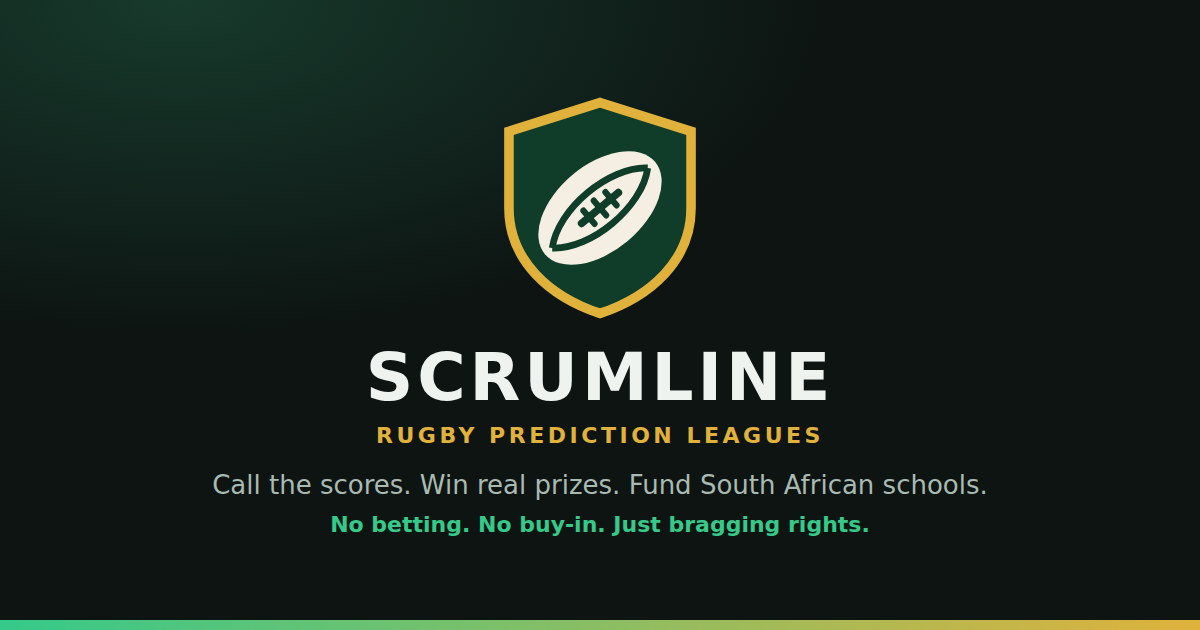
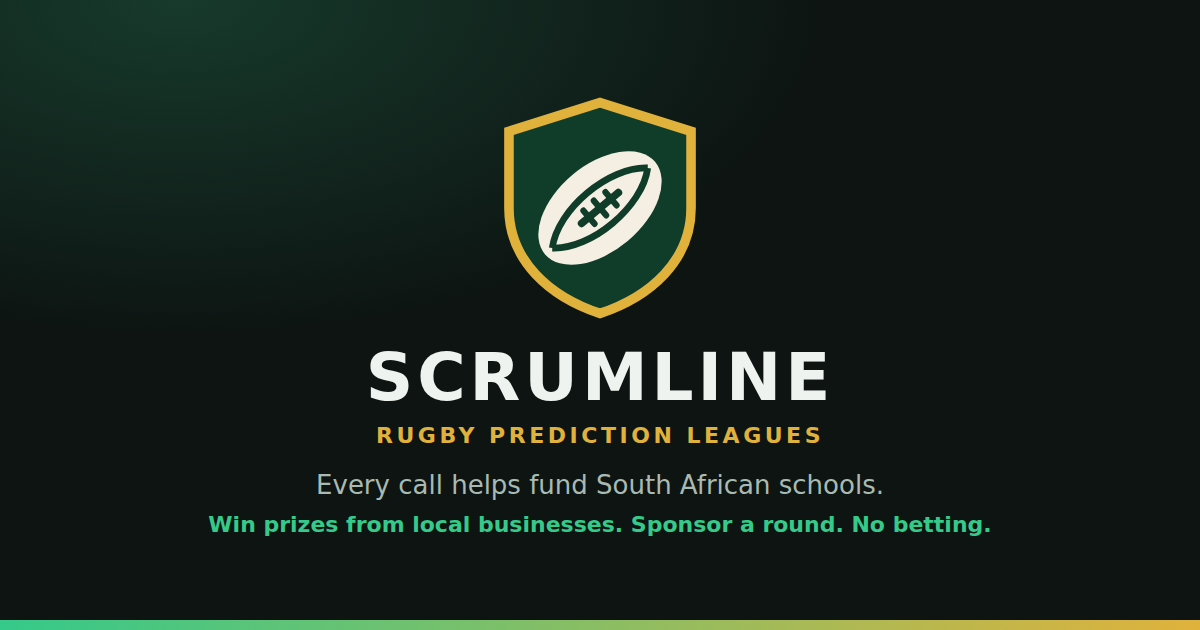
Share copy leads with funding South African schools, adds a business line
Claude-Session: https://claude.ai/code/session_01Gzoaogn2svzijADxrmvZ1u

Changed region(s): [[0.1542, 0.8143, 0.8325, 0.8746], [0.1542, 0.754, 0.8325, 0.7841]]

diff --git a/src/components/invite-card.tsx b/src/components/invite-card.tsx
@@ -37,8 +37,8 @@ export function InviteCard() {
 
   async function share() {
     const text = named
-      ? `Think you know rugby? Prove it. I'm calling every weekend's games on Scrumline for ${named}. Get the scores right to win real prizes from local businesses, and help fund school projects across South Africa. No betting, no buy-in. Join me: ${link}`
-      : `Think you know rugby? Prove it. I'm calling every weekend's games on Scrumline. Get the scores right to win real prizes from local businesses, and help fund school projects across South Africa. No betting, no buy-in. Join me: ${link}`;
+      ? `Every weekend's rugby on Scrumline helps fund South African schools. I'm calling the games for ${named}: get the scores right, win prizes from local businesses and push our schools up the table. Got a business? Sponsor a round and get seen by players every weekend. Free to play, no betting. Join me: ${link}`
+      : `Every weekend's rugby on Scrumline helps fund South African schools. Get the scores right, win prizes from local businesses and push your school up the table. Got a business? Sponsor a round and get seen by players every weekend. Free to play, no betting. Join me: ${link}`;
     try {
       if (navigator.share) await navigator.share({ text });
       else { await navigator.clipboard.writeText(link); setCopied(true); }

diff --git a/src/app/layout.tsx b/src/app/layout.tsx
@@ -7,7 +7,7 @@ import { Brand } from "@/components/logo";
 import { PwaSetup } from "@/components/pwa-setup";
 import { PreviewBar } from "@/components/preview-bar";
 
-const description = "Think you know rugby? Call the scores, win real prizes from local businesses and help fund schools across South Africa. No betting.";
+const description = "Rugby predictions that help fund South African schools. Call the scores and win prizes from local businesses, or sponsor a round and get seen every weekend. Free to play, no betting.";
 // Link previews (WhatsApp, iMessage, socials) need an absolute image address, or the app picks its own.
 const site = `${process.env.NEXT_PUBLIC_SITE_ORIGIN ?? "https://jdaines89.github.io"}${process.env.NEXT_PUBLIC_BASE_PATH ?? ""}`;
 const card = { url: `${site}/og.png`, width: 1200, height: 630, alt: "Scrumline, rugby prediction leagues" };
